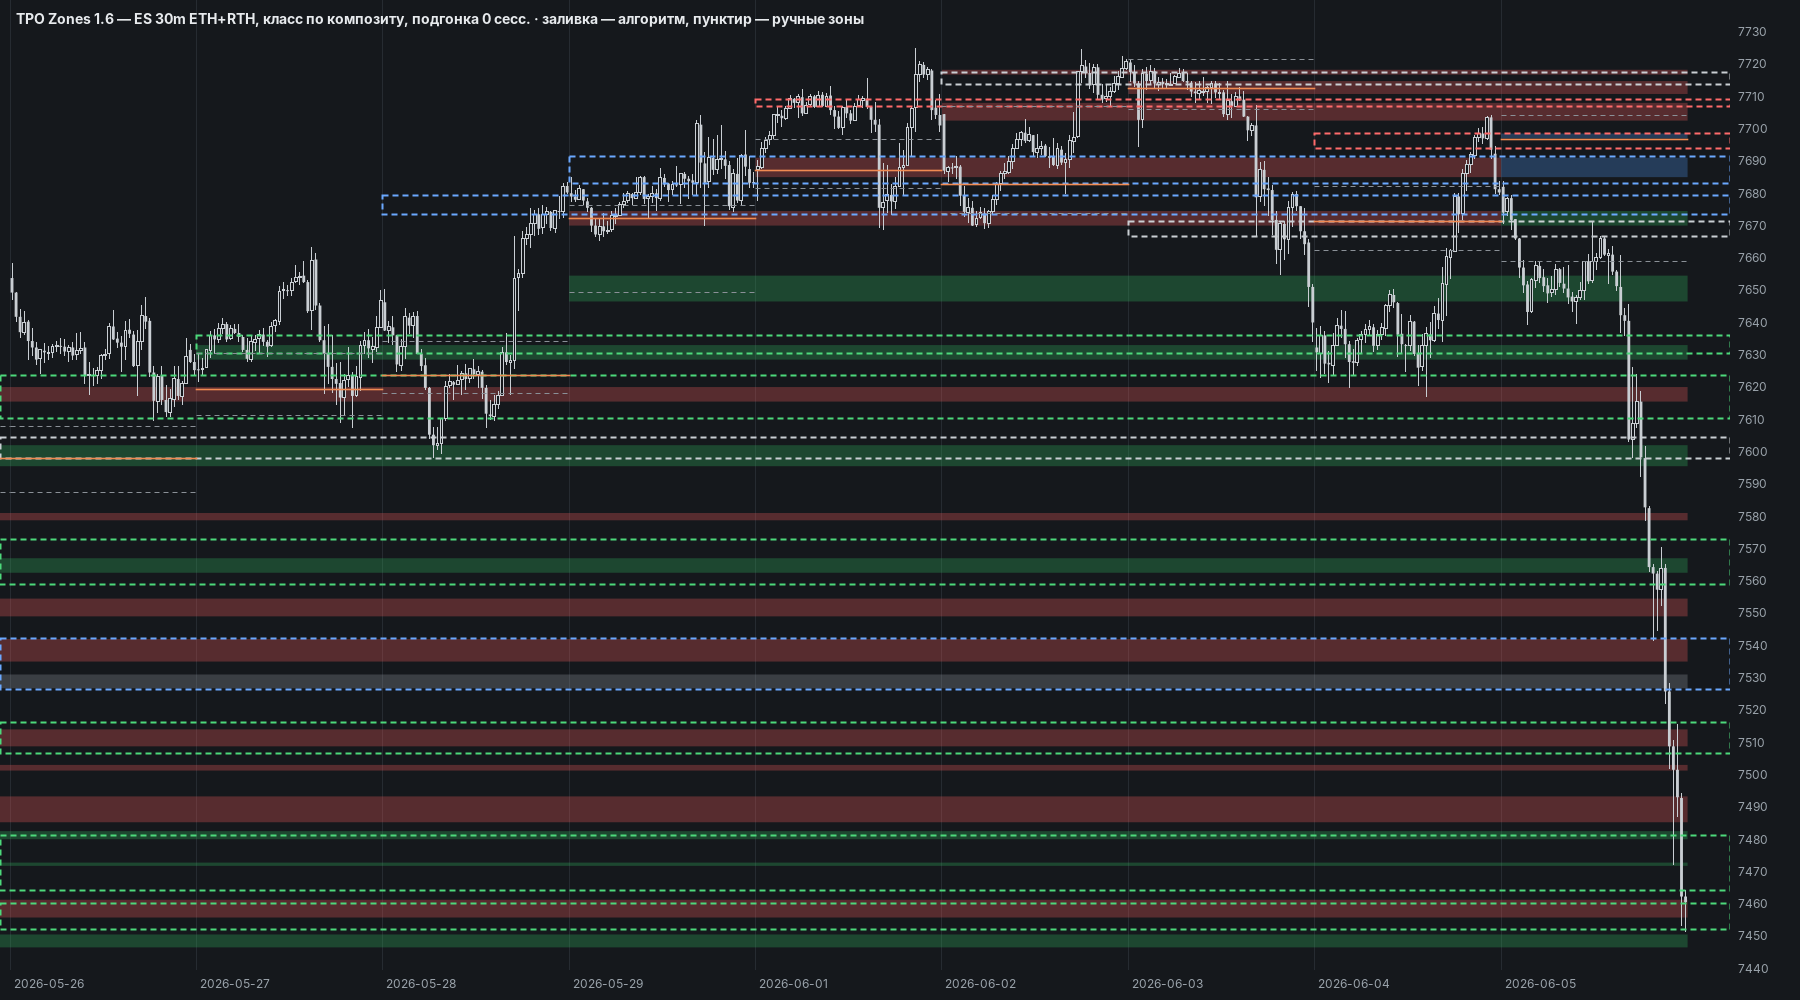
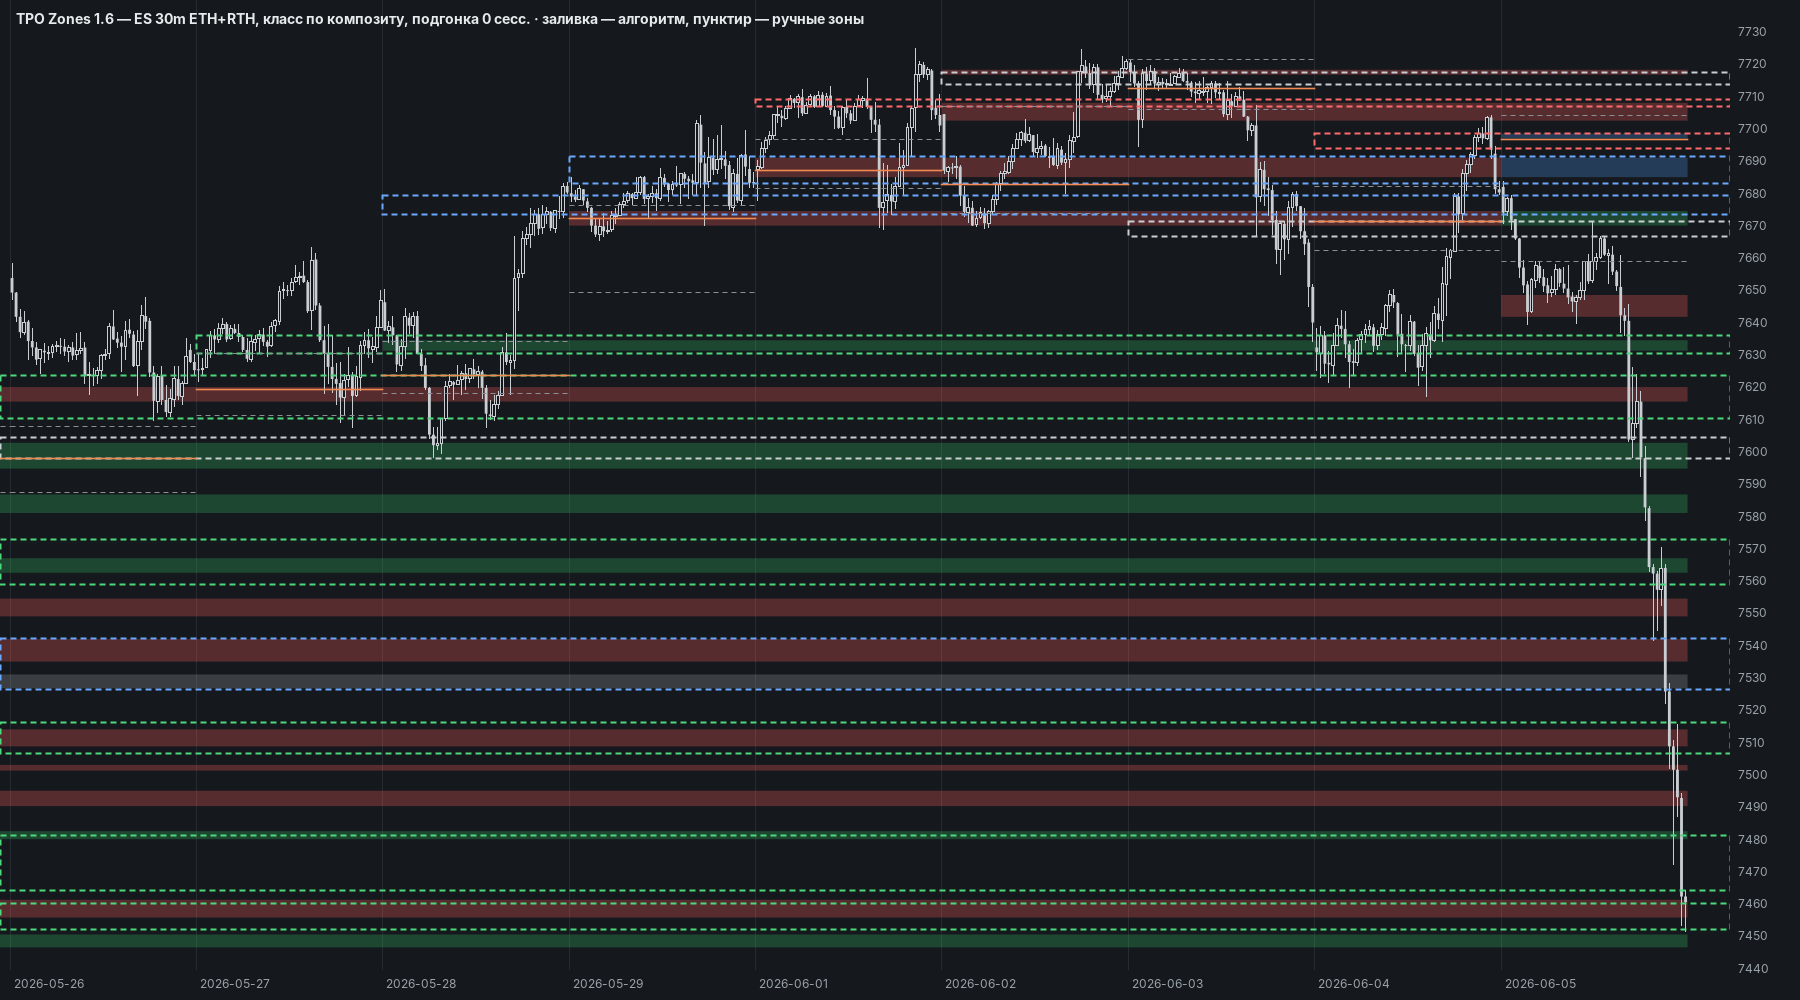
Session zones: keep significant nodes and 3-point gaps
Session zones pile up over the whole history, so by the end of the chart
they covered every price (12.3 zones per 100 points near price, 433 in the
last session). A node now needs a peak of at least 50% of the day's main
node, and a node within 3 points of an existing zone confirms it: 8.7 zones
per 100 points (the manual layout has about 8) with gaps of 3+ points.
Manual zones found 35% (42% before), IoU >= 0.5 unchanged at 20%.

Claude-Session: https://claude.ai/code/session_01PTkoju45i5ZphCgSn4vnkL

diff --git a/motivewave/src/patterns/zones/TpoZonesStudy.java b/motivewave/src/patterns/zones/TpoZonesStudy.java
@@ -56,7 +56,7 @@ import patterns.zones.ZoneEngine.Result;
 public class TpoZonesStudy extends Study {
 
     // ---- ключи настроек
-    static final String FALSE_BRK = "compFalseBreak", COMP_VA = "compVaOverlap", SESS = "sessionZones", S_PEAK = "sessMinPeak", S_BODY = "sessBody", CLUST = "bodyClusters", CL_DIP = "clusterDip", CL_MAX = "clusterMax", SUB_ADD = "subAddsZones", FIT_ETH = "fitEth", FIT_B = "fitBody", FIT_C = "fitCluster", PMAXB = "partMaxBody", PART = "partition", BODY = "bodyShare", PCORE = "partCore", PTGT = "partTarget", NODES = "coreNodes", NODE_DIP = "nodeDip", NODE_DROP = "nodeDrop", NO_OVERLAP = "noOverlap", MIN_PIECE = "minPiece", SHORT_DAYS = "compShortDays", SUB_OV = "subOverlap", SUB_RATIO = "subRatio", CLIFF = "coreCliff", CORE_DAYS = "coreMinDays", CORE_SESS = "coreFromSessions", JOIN_GAP = "joinGap", ZONE_W = "zoneMaxW", MODE = "compositeMode", CORE_VA = "coreByVa", BAR30 = "bar30", HISTORY_DAYS = "historyDays", TZ = "tz", RTH_START = "rthStart",
+    static final String FALSE_BRK = "compFalseBreak", COMP_VA = "compVaOverlap", S_GAP = "sessMinGap", S_SHARE = "sessPeakShare", SESS = "sessionZones", S_PEAK = "sessMinPeak", S_BODY = "sessBody", CLUST = "bodyClusters", CL_DIP = "clusterDip", CL_MAX = "clusterMax", SUB_ADD = "subAddsZones", FIT_ETH = "fitEth", FIT_B = "fitBody", FIT_C = "fitCluster", PMAXB = "partMaxBody", PART = "partition", BODY = "bodyShare", PCORE = "partCore", PTGT = "partTarget", NODES = "coreNodes", NODE_DIP = "nodeDip", NODE_DROP = "nodeDrop", NO_OVERLAP = "noOverlap", MIN_PIECE = "minPiece", SHORT_DAYS = "compShortDays", SUB_OV = "subOverlap", SUB_RATIO = "subRatio", CLIFF = "coreCliff", CORE_DAYS = "coreMinDays", CORE_SESS = "coreFromSessions", JOIN_GAP = "joinGap", ZONE_W = "zoneMaxW", MODE = "compositeMode", CORE_VA = "coreByVa", BAR30 = "bar30", HISTORY_DAYS = "historyDays", TZ = "tz", RTH_START = "rthStart",
             RTH_END = "rthEnd", ETH_START = "ethStart", TICK = "tick", VA_PCT = "vaPct", HVN_SHARE = "hvnShare",
             HVN_MIN = "hvnMin", HVN_MAX = "hvnMax", GHVN_MIN = "greyHvnMin", GHVN_MAX = "greyHvnMax",
             MERGE_OV = "mergeOv", MERGE_W = "mergeW", COMP_DAYS = "compDays", GREY_HIST = "greyHist",
@@ -96,6 +96,8 @@ public class TpoZonesStudy extends Study {
         g.addRow(new DoubleDescriptor(PMAXB, "Разметка: тело не шире, п. (шире — остаётся плотная середина)", 100, 20, 400, 5));
         g.addRow(new DoubleDescriptor(FIT_B, "Подгонка по телам: меньше доли максимума тел свечей — пустота (0 — без подгонки)", 0.20, 0, 0.8, 0.05));
         g.addRow(new BooleanDescriptor(SESS, "Зоны из сессий: узлы RTH TPO дня, подогнанные по телам; композит задаёт роль и один раз перекрашивает", true));
+        g.addRow(new DoubleDescriptor(S_GAP, "Сессионные зоны: узел ближе, п., к существующей зоне — её подтверждение (зазор между зонами)", 3.0, 0, 20, 0.5));
+        g.addRow(new DoubleDescriptor(S_SHARE, "Сессионные зоны: узел — вершина не ниже доли главного узла дня", 0.5, 0, 1, 0.05));
         g.addRow(new IntegerDescriptor(S_PEAK, "Сессионные зоны: вершина узла от, TPO", 3, 1, 13, 1));
         g.addRow(new DoubleDescriptor(S_BODY, "Сессионные зоны: подгонка — тела не ниже доли максимума тел", 0.5, 0.1, 0.95, 0.05));
         g.addRow(new BooleanDescriptor(CLUST, "Зоны — скопления тел свечей (границы на провалах), без нарезки равными кусками", true));
@@ -283,6 +285,8 @@ public class TpoZonesStudy extends Study {
         p.bodyClusters = st.getBoolean(CLUST, true);
         p.sessionZones = st.getBoolean(SESS, true);
         p.sessMinPeak = st.getInteger(S_PEAK, 3);
+        p.sessMinGapPts = st.getDouble(S_GAP, 3.0);
+        p.sessPeakShare = st.getDouble(S_SHARE, 0.5);
         p.sessBodyShare = st.getDouble(S_BODY, 0.5);
         p.clusterDip = st.getDouble(CL_DIP, 0.10);
         p.clusterMaxPts = st.getDouble(CL_MAX, 8);

diff --git a/motivewave/src/patterns/zones/ZoneEngine.java b/motivewave/src/patterns/zones/ZoneEngine.java
@@ -93,9 +93,10 @@ public final class ZoneEngine {
                                                   // композит только задаёт роль (ядро / выше / ниже) и один раз перекрашивает
         public double sessNodeDrop = 1.0;         // узел — строки не ниже вершины на столько TPO (сглаж. 1 п.)
         public double sessNodeDip = 0.15;         // провал между узлами — от доли меньшей вершины (и ≥ 1 TPO)
+        public double sessPeakShare = 0.5;         // узел — вершина не ниже этой доли максимума TPO дня (0 — любая ≥ sessMinPeak)
         public int sessMinPeak = 3;               // вершина узла — не меньше стольких TPO
         public double sessMaxPts = 8;             // зона не шире, п.
-        public double sessMinGapPts = 1.0;        // узел ближе этого к существующей зоне (или пересекает её) — её подтверждение
+        public double sessMinGapPts = 3.0;        // узел ближе этого к существующей зоне (или пересекает её) — её подтверждение
         public boolean layoutDropYounger = true;  // раскладка: младшая зона, налезающая на уложенную, не рисуется (а не обрезается впритык)
         public int sessRoleMode = 0;              // роль вне композита: 0 — отторжения, затем закрытие сессии; 1 — только закрытие
         public double sessBodyShare = 0.5;
@@ -826,6 +827,7 @@ public final class ZoneEngine {
             for (int j = Math.max(0, i - half); j <= Math.min(n - 1, i + half); j++) { sum += c[j]; k++; }
             sm[i] = sum / k;
         }
+        double dayMax = 0; for (double v : sm) dayMax = Math.max(dayMax, v);
         List<int[]> pcs = new ArrayList<>();
         splitRel(sm, 0, n - 1, p.sessNodeDip, 1.0, pcs);
         int[] occ = new int[n + 2 * onePt + 1];               // тела свечей сессии, со сдвигом onePt
@@ -840,6 +842,7 @@ public final class ZoneEngine {
             int m = q[0];
             for (int i = q[0]; i <= q[1]; i++) if (sm[i] > sm[m]) m = i;
             if (c[m] < p.sessMinPeak && sm[m] < p.sessMinPeak) continue;
+            if (p.sessPeakShare > 0 && sm[m] < p.sessPeakShare * dayMax) continue;
             int lo = m, hi = m;
             while (lo > q[0] && sm[lo - 1] >= sm[m] - p.sessNodeDrop) lo--;
             while (hi < q[1] && sm[hi + 1] >= sm[m] - p.sessNodeDrop) hi++;

diff --git a/motivewave/parity/Bench.java b/motivewave/parity/Bench.java
@@ -81,6 +81,12 @@ public class Bench {
                 n, m3, 100.0 * m3 / n, m5, 100.0 * m5 / n, ious.get(ious.size() / 2), m3 > 0 ? sumEdge / m3 : 0, m3 > 0 ? 100.0 * colorOk / m3 : 0,
                 widths.get(widths.size() / 2), dens / densN, densMan / densN);
         if (Boolean.getBoolean("conf")) System.out.println(conf);
+        List<Shown> last = res.visible.get(res.visible.size() - 1);
+        double plo = Double.MAX_VALUE, phi = -Double.MAX_VALUE;
+        for (Shown v : last) { plo = Math.min(plo, v.lo); phi = Math.max(phi, v.hi); }
+        double lastClose = res.sessions.get(res.sessions.size() - 1).open;
+        int near = 0; for (Shown v : last) if (Math.abs((v.lo + v.hi) / 2 - lastClose) <= 150) near++;
+        System.out.printf(Locale.ROOT, "   последняя сессия: зон %d, в ± 150 п. от цены %d (%.1f на 100 п.; у ручных ≈ 8)%n", last.size(), near, near / 3.0);
     }
 
     static boolean agree(String c, Kind k) {

diff --git a/motivewave/README.md b/motivewave/README.md
@@ -199,7 +199,10 @@ java -cp <classes> Bench bars.csv output/manual_zones_bench.csv compositeMode=tr
 зона, налезающая на уложенную, не рисуется (не обрезается впритык) — между зонами всегда пустота.
 Роль при рождении: внутри тела сложившегося композита — по нему, иначе по отторжениям в сессии рождения,
 иначе по закрытию сессии, иначе серая; композит, сложившийся позже, один раз перекрашивает.
-Замер: найдено 42% ручных зон (IoU ≥ 0.5 — 20%), ширина медиана 4 п.; цвет — 30% (пока не настраивался).
+Узел берётся, только если его вершина не ниже 50% главного узла дня, а новый узел ближе 3 п. к
+существующей зоне — её подтверждение: зоны копятся со всей истории, и без этого к концу графика они
+покрывали всю цену (12 зон на 100 п. около цены, в последней сессии — 433). Теперь 8.7 на 100 п. (у ручной
+разметки ≈ 8), зазоры между зонами ≥ 3 п. Замер: найдено 35% ручных зон (IoU ≥ 0.5 — 20%), ширина медиана 4 п.
 
 ## Проверка против Python
 
